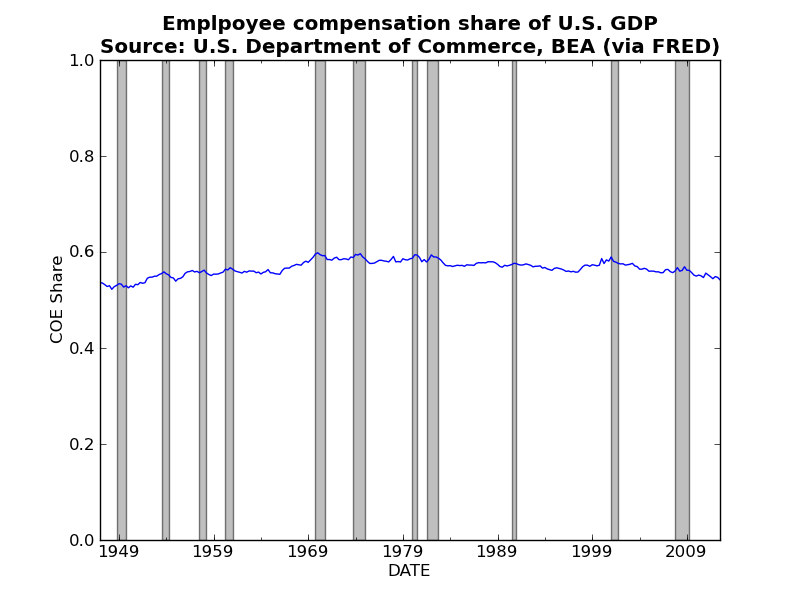
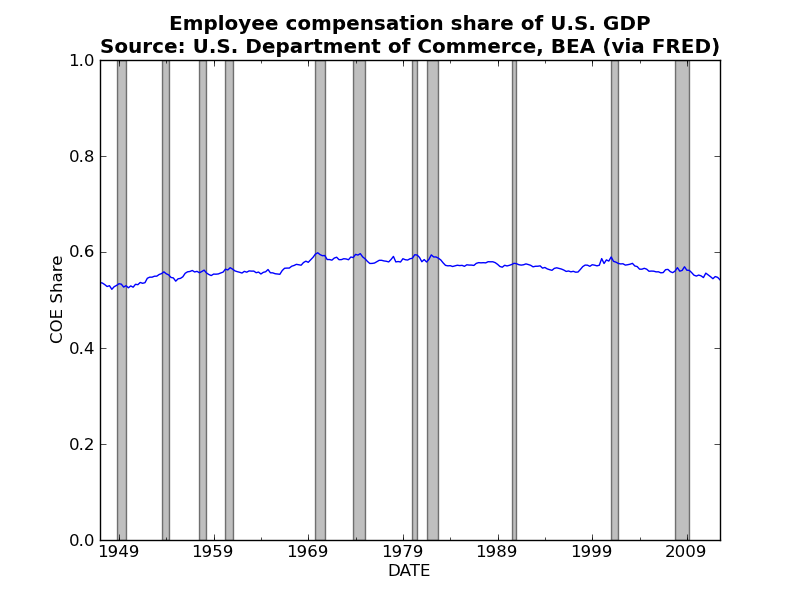
Fixed typo in plot titles.

Changed region(s): [[0.1875, 0.03, 0.8125, 0.06]]

diff --git a/Graphs of the day/2012-12-28.py b/Graphs of the day/2012-12-28.py
@@ -20,26 +20,29 @@ Inflation_CPIAUCSL = CPIAUCSL.pct_change(periods=12)
 Inflation_CPIAUCNS = CPIAUCNS.pct_change(periods=12)
 Inflation_GDPDEF = GDPDEF.pct_change(periods=4)
 
+# Combine the three Series objects into a single DataFrame
+Inflation_Measures = Inflation_CPIAUCNS
+Inflation_Measures['CPIAUCSL'] = Inflation_CPIAUCSL
+Inflation_Measures['GDPDEF'] = Inflation_GDPDEF
+
 ##### plot the data #####
 
 # basic plot in one line of code!
-fig = plt.figure()
-ax = Inflation_CPIAUCSL.plot(legend=False, label='SA')
-#CPIAUCNS.plot(legend=False, label='NSA')
+Inflation_Measures.plot(markersize=3, style='o-', alpha=0.75)
 
 # add labels, axes, title, etc
-ax.set_ylabel("Inflation (% Change from a year ago)")
-ax.set_title("Measure of historical inflation inthe U.S\nSource: U.S. Department of Labor, BLS (via FRED)",
-             weight='bold')
-ax.grid()
+plt.ylabel("Inflation (% Change from a year ago)")
+plt.title("Measures of historical inflation in the U.S\nSource: U.S. Department of Labor, BLS (via FRED)",
+      weight='bold')
+plt.grid()
 
 # load the NBER recession dates
 NBER_Dates = pd.read_csv('NBER Dates.txt')
 
-# for loop generates recession bands!
+# for loop generates recession band!s
 for i in range(NBER_Dates.shape[0]):
-    ax.axvspan(NBER_Dates['Peak'][i], NBER_Dates['Trough'][i], facecolor='grey', alpha=0.5)
+    plt.axvspan(NBER_Dates['Peak'][i], NBER_Dates['Trough'][i], facecolor='grey', alpha=0.5)
     
 # save the figure and display
-#plt.savefig('2012-12-28-Mankiw-Figure-1-2.png')
+plt.savefig('2012-12-28-Mankiw-Figure-1-2.png')
 plt.show()

diff --git a/Graphs of the day/2012-12-31.py b/Graphs of the day/2012-12-31.py
@@ -39,7 +39,7 @@ COE_share.plot()
 
 # add labels, axes, title, etc
 plt.ylabel("COE Share")
-plt.title("Emplpoyee compensation share of U.S. GDP\n" +\
+plt.title("Employee compensation share of U.S. GDP\n" +\
           "Source: U.S. Department of Commerce, BEA (via FRED)",
           weight='bold')
 plt.grid()
@@ -58,7 +58,7 @@ COE_share['1973-01-01':].plot()
 
 # add labels, axes, title, etc
 plt.ylabel("COE Share")
-plt.title("Emplpoyee compensation share of U.S. GDP\n" +\
+plt.title("Employee compensation share of U.S. GDP\n" +\
           "Source: U.S. Department of Commerce, BEA (via FRED)",
           weight='bold')
 plt.grid()
@@ -78,7 +78,7 @@ labors_share.plot()
 # add labels, axes, title, etc
 plt.ylabel(r"COE Share")
 plt.ylim(0, 1)
-plt.title("Emplpoyee compensation share of U.S. GDP\n" +\
+plt.title("Employee compensation share of U.S. GDP\n" +\
           "Source: U.S. Department of Commerce, BEA (via FRED)",
           weight='bold')
 plt.grid()

diff --git a/Graphs of the day/2012-12-22.py b/Graphs of the day/2012-12-22.py
@@ -123,7 +123,7 @@ fig.text(0.5, 0.95, 'Isoquants and isocosts lines for CRTS Cobb-Douglas producti
          fontsize=20, ha='center')
 
 # Save figure
-plt.savefig('2012-12-22-Contour-Plots-Output-Costs.png')
+plt.savefig('2012-12-22-Contour-plots-for-output-and-costs.png')
     
 # display plot
 plt.show()
